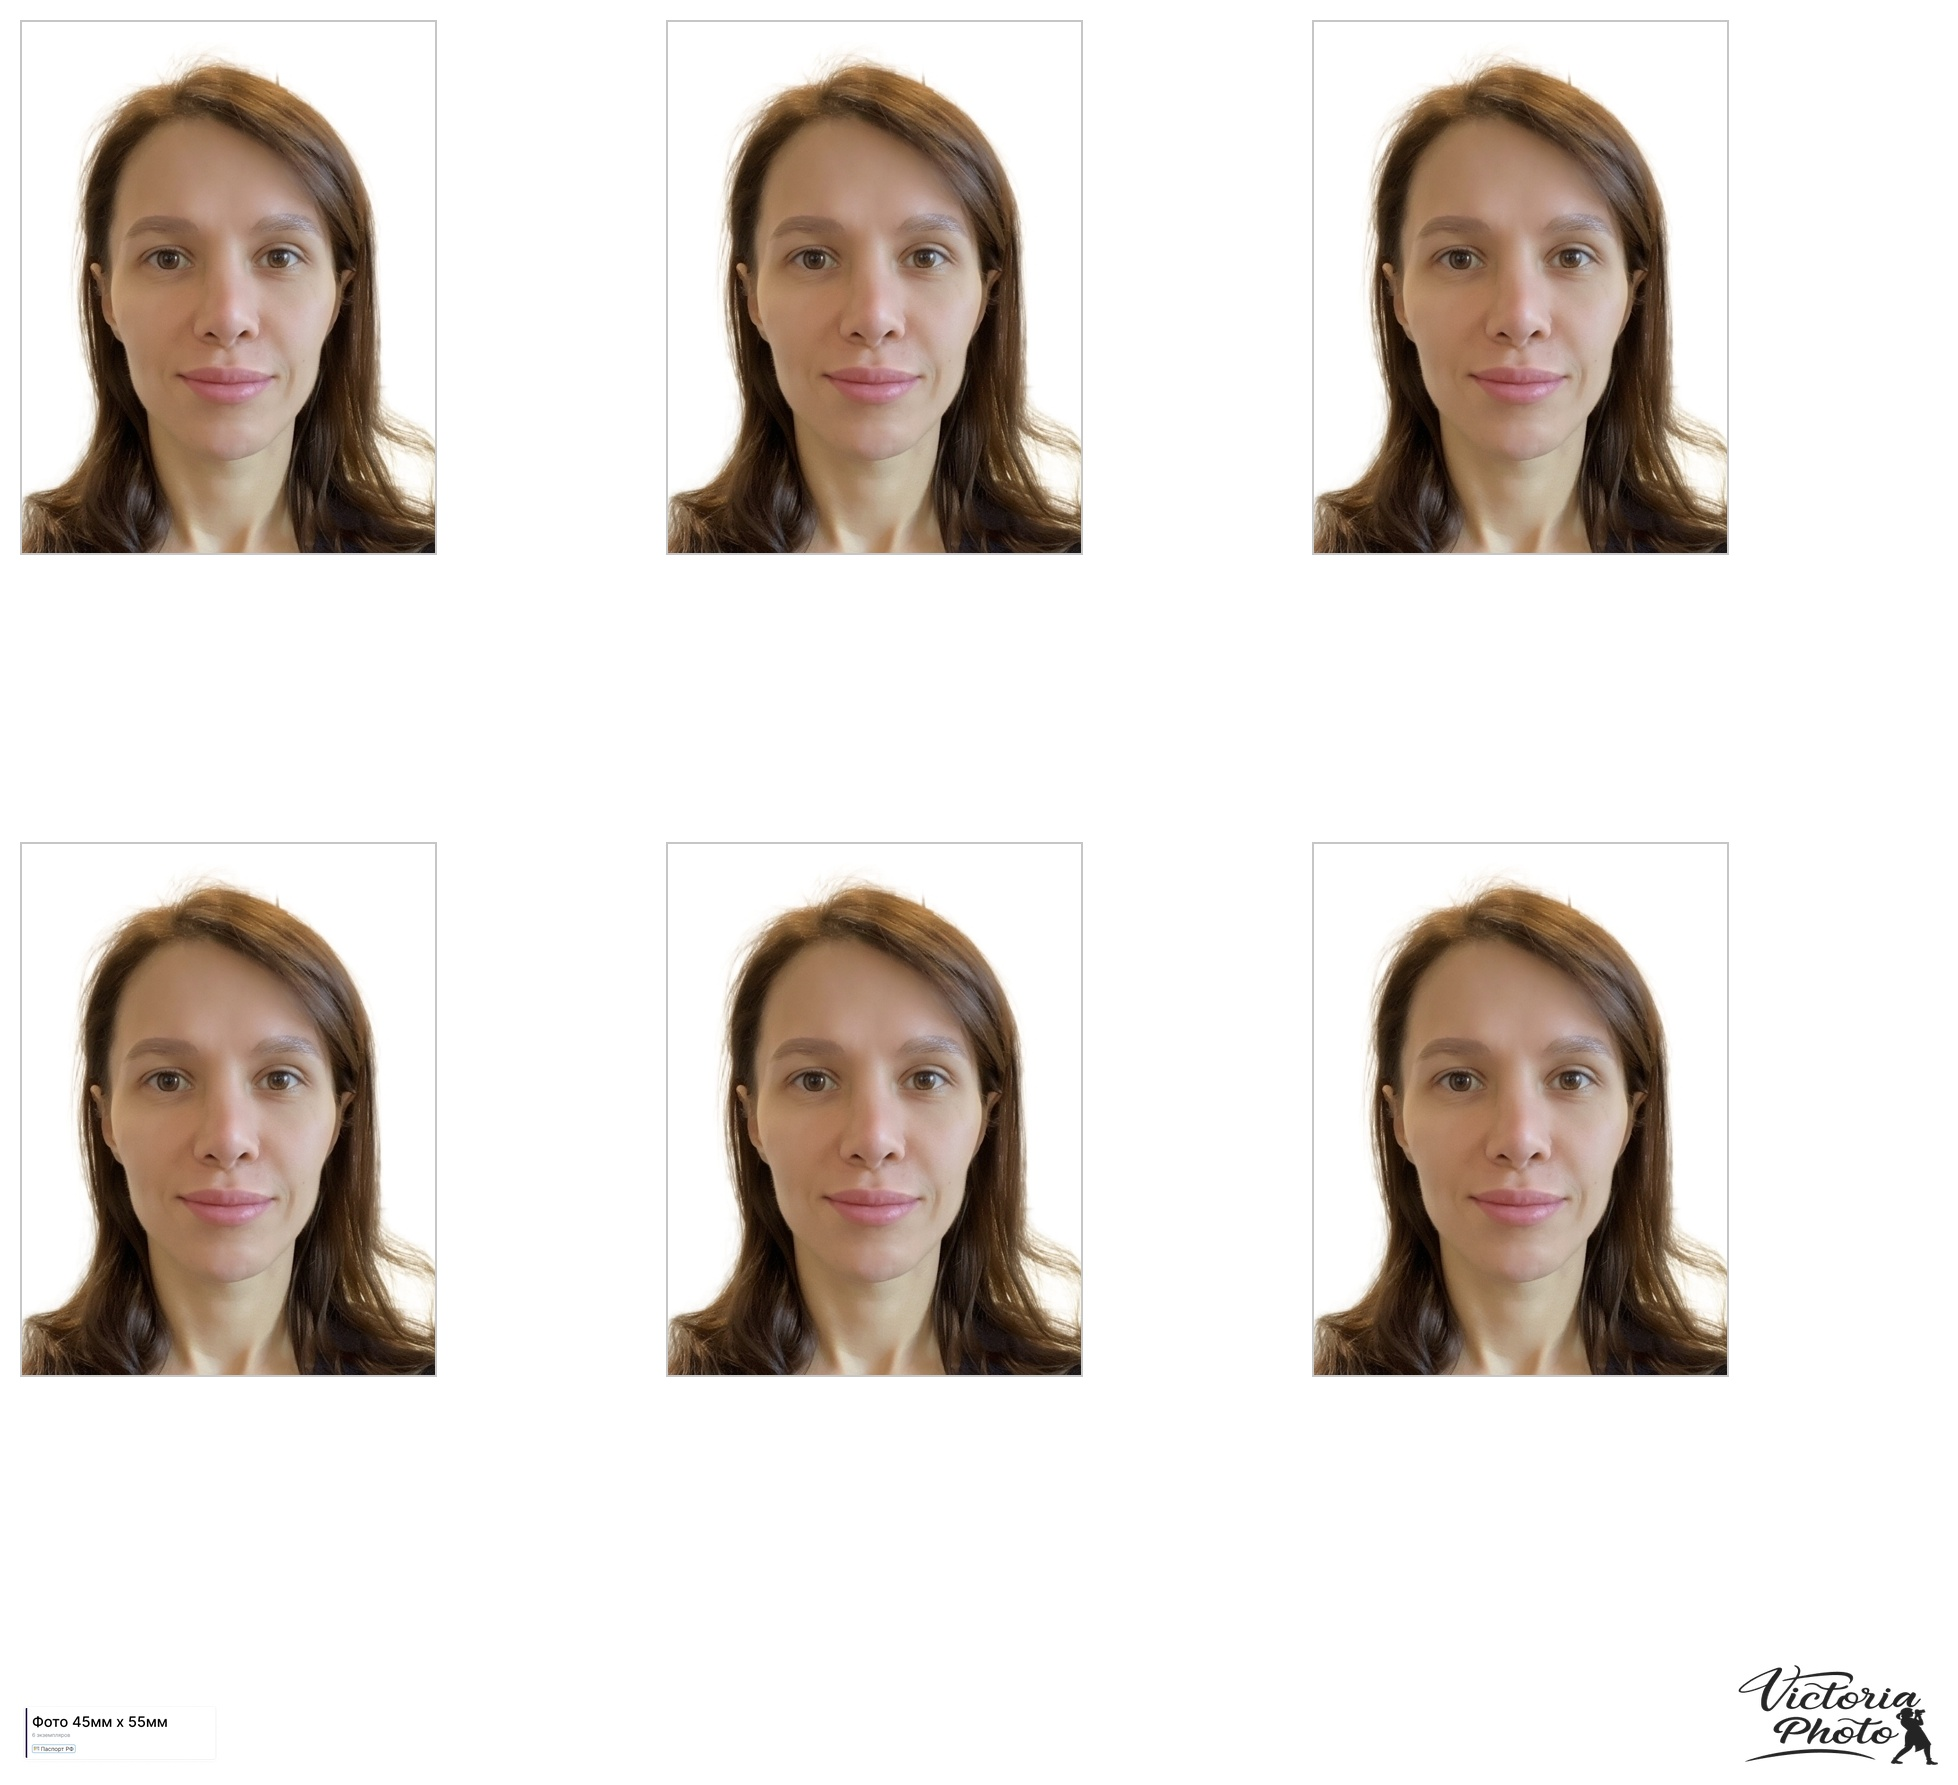
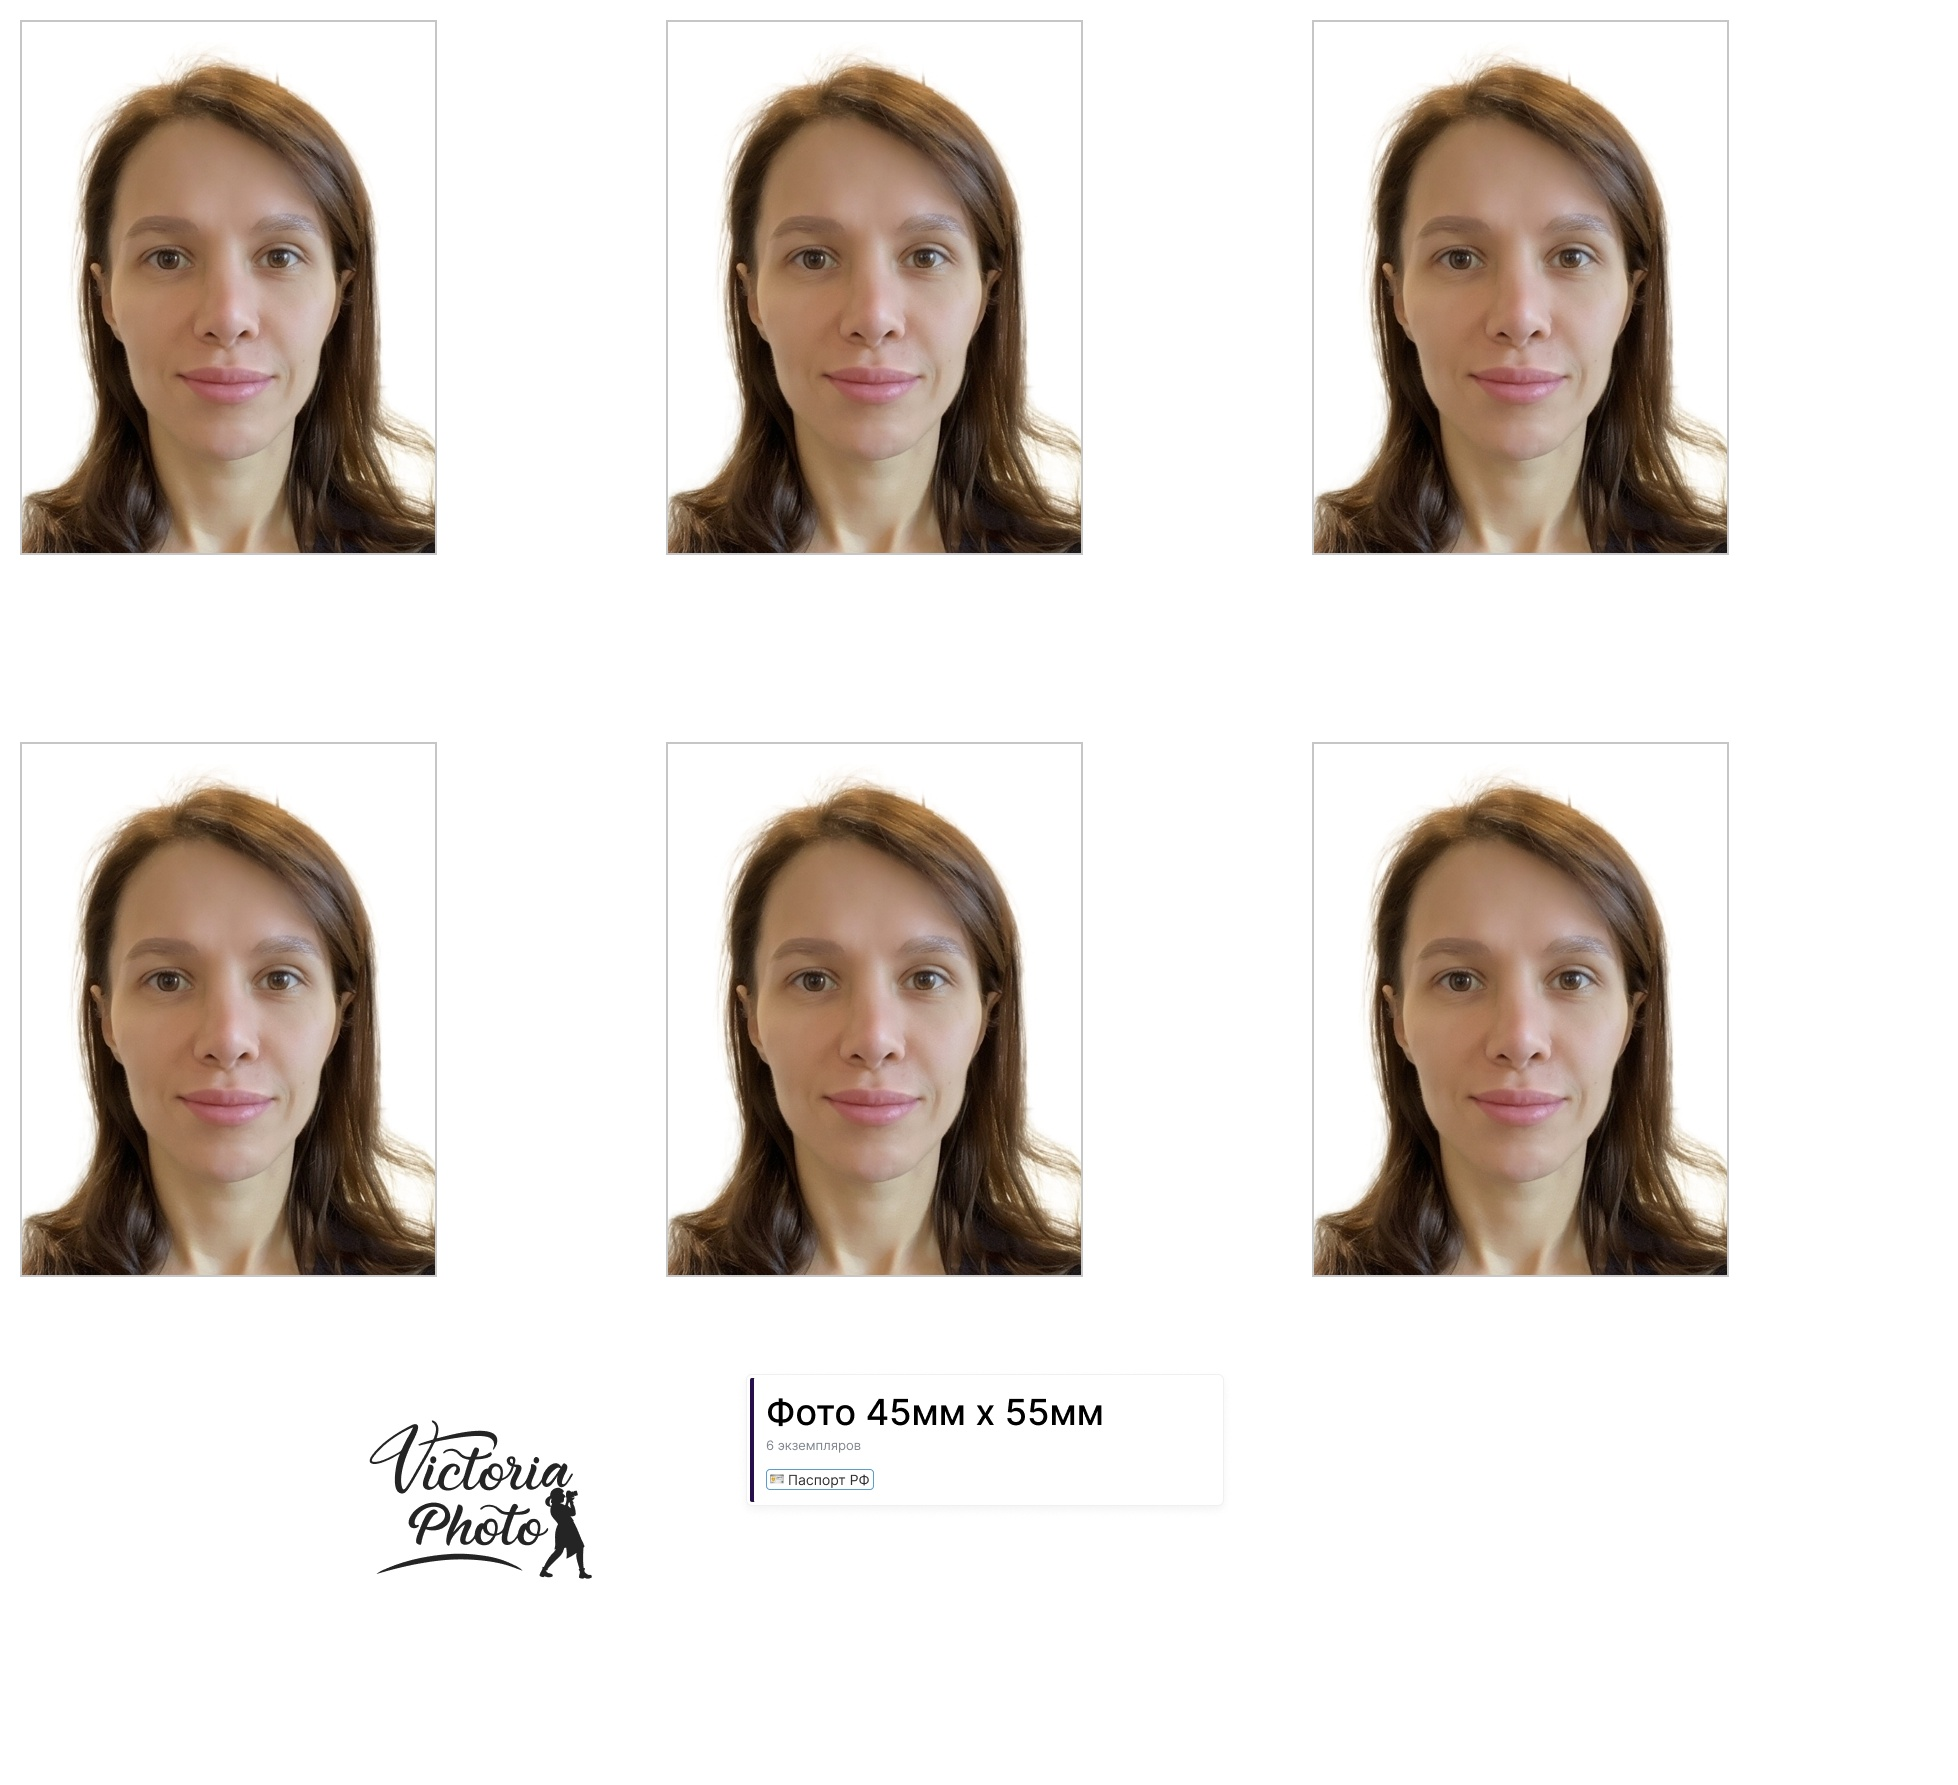
Updated photo spacing and margins

diff --git a/app.py b/app.py
@@ -15,12 +15,15 @@ logging.basicConfig(
 )
 logger = logging.getLogger(__name__)
 
-# Константы
+# Константы для холста
 CANVAS_WIDTH = 1958
 CANVAS_HEIGHT = 1785
-BORDER_COLOR = "#C6C6C6"
-BORDER_WIDTH = 2
-SPACING = 20
+
+# Отступы для фотографий
+PHOTO_MARGIN_LEFT = 107  # отступ слева
+PHOTO_MARGIN_TOP = 85    # отступ сверху
+PHOTO_MARGIN_BOTTOM = 97 # отступ между рядами
+PHOTO_GAP = 166         # отступ между фото
 
 # Отступы для лого и подписи
 LEFT_MARGIN = 369  # отступ слева для лого
@@ -71,30 +74,21 @@ def resize_images():
         # Создаем белый холст
         canvas = Image.new('RGB', (CANVAS_WIDTH, CANVAS_HEIGHT), 'white')
         
-        # Вычисляем размеры для фотографий (2 ряда по 3 фото)
-        photo_width = (CANVAS_WIDTH - (4 * SPACING)) // 3
-        photo_height = (CANVAS_HEIGHT - (4 * SPACING) - 300) // 2  # 300px для области логотипа и подписи
-
         # Размещаем фотографии на холсте
         for i, photo in enumerate(photos):
             img = Image.open(photo)
             img = img.convert('RGB')
             
-            # Сохраняем пропорции при ресайзе
-            img.thumbnail((photo_width, photo_height), Image.Resampling.LANCZOS)
-            
             # Вычисляем позицию для фото
             row = i // 3
             col = i % 3
-            x = SPACING + col * (photo_width + SPACING)
-            y = SPACING + row * (photo_height + SPACING)
             
-            # Добавляем рамку
-            bordered_img = Image.new('RGB', (img.width + 2*BORDER_WIDTH, img.height + 2*BORDER_WIDTH), BORDER_COLOR)
-            bordered_img.paste(img, (BORDER_WIDTH, BORDER_WIDTH))
+            # Вычисляем координаты для размещения фото
+            x = PHOTO_MARGIN_LEFT + col * (img.width + PHOTO_GAP)
+            y = PHOTO_MARGIN_TOP + row * (img.height + PHOTO_MARGIN_BOTTOM)
             
             # Размещаем фото на холсте
-            canvas.paste(bordered_img, (x, y))
+            canvas.paste(img, (x, y))
 
         # Добавляем логотип и подпись
         add_logo_and_signature(canvas)
